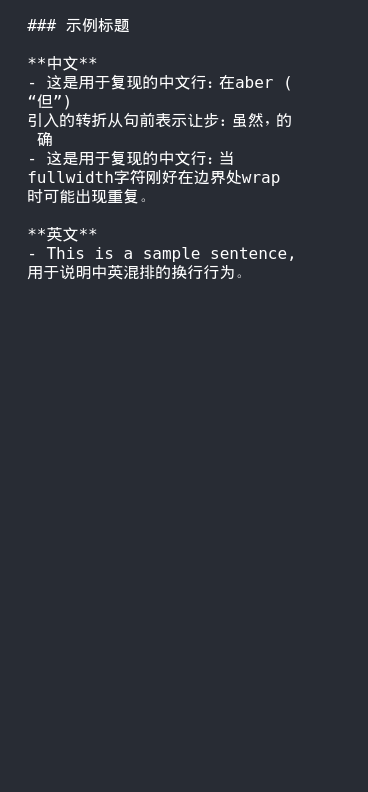
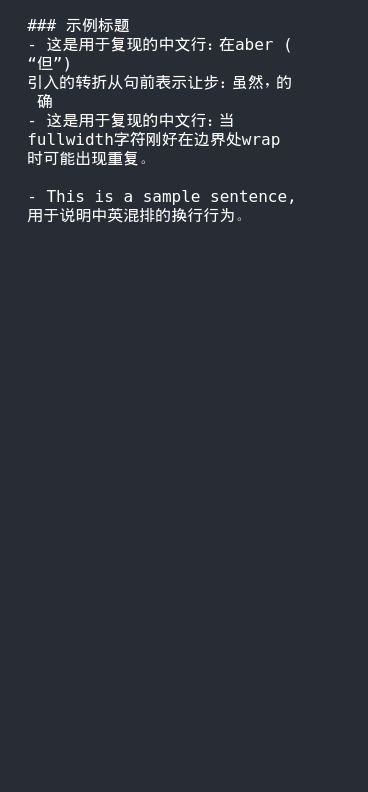
chore: drop language labels

Changed region(s): [[0.0598, 0.0303, 0.8071, 0.3636], [0.5978, 0.0303, 0.7174, 0.0606]]

diff --git a/tmp/demo-40-full.html b/tmp/demo-40-full.html
@@ -12,17 +12,17 @@ body {
 </head>
 <body>
     <pre style="font-family:Menlo,'DejaVu Sans Mono',consolas,'Courier New',monospace"><code style="font-family:inherit"><span class="r1">  ### 示例标题</span>
-
-<span class="r1">  **中文**</span>
 <span class="r1">  - 这是用于复现的中文行：在aber (</span>
 <span class="r1">  “但”)</span>
 <span class="r1">  引入的转折从句前表示让步：虽然，的确</span>
 <span class="r1">  - 这是用于复现的中文行：当fullwidth</span>
 <span class="r1">  字符刚好在边界处wrap时可能出现重复。</span>
 
-<span class="r1">  **英文**</span>
 <span class="r1">  - This is a sample sentence,</span>
 <span class="r1">  用于说明中英混排的换行行为。</span>
+
+
+
 
 
 

diff --git a/tmp/demo-38-full.html b/tmp/demo-38-full.html
@@ -13,8 +13,6 @@ body {
 </head>
 <body>
     <pre style="font-family:Menlo,'DejaVu Sans Mono',consolas,'Courier New',monospace"><code style="font-family:inherit"><span class="r1">  ### 示例标题</span>
-
-<span class="r1">  **中文**</span>
 <span class="r1">  - 这是用于复现的中文行：在aber (</span>
 <span class="r1">  “但”)</span>
 <span class="r1">  引入的转折从句前表示让步：虽然，的</span>
@@ -23,9 +21,11 @@ body {
 <span class="r1">  fullwidth字符刚好在边界处wrap</span>
 <span class="r1">  时可能出现重复。</span>
 
-<span class="r1">  **英文**</span>
 <span class="r1">  - This is a sample sentence,</span>
 <span class="r1">  用于说明中英混排的换行行为。</span>
+
+
+
 
 
 

diff --git a/tmp/demo-39-full.html b/tmp/demo-39-full.html
@@ -12,8 +12,6 @@ body {
 </head>
 <body>
     <pre style="font-family:Menlo,'DejaVu Sans Mono',consolas,'Courier New',monospace"><code style="font-family:inherit"><span class="r1">  ### 示例标题</span>
-
-<span class="r1">  **中文**</span>
 <span class="r1">  - 这是用于复现的中文行：在aber (</span>
 <span class="r1">  “但”)</span>
 <span class="r1">  引入的转折从句前表示让步：虽然，的确</span>
@@ -22,9 +20,11 @@ body {
 <span class="r1">  字符刚好在边界处wrap</span>
 <span class="r1">  时可能出现重复。</span>
 
-<span class="r1">  **英文**</span>
 <span class="r1">  - This is a sample sentence,</span>
 <span class="r1">  用于说明中英混排的换行行为。</span>
+
+
+
 
 
 

diff --git a/src/index.tsx b/src/index.tsx
@@ -9,12 +9,9 @@ import type React from 'react';
 function buildMarkdownContent(): string {
   return [
     '### 示例标题',
-    '',
-    '**中文**',
     '- 这是用于复现的中文行：在aber (“但”)引入的转折从句前表示让步：虽然，的确',
     '- 这是用于复现的中文行：当fullwidth字符刚好在边界处wrap时可能出现重复。',
     '',
-    '**英文**',
     '- This is a sample sentence, 用于说明中英混排的换行行为。',
   ].join('\n');
 }
